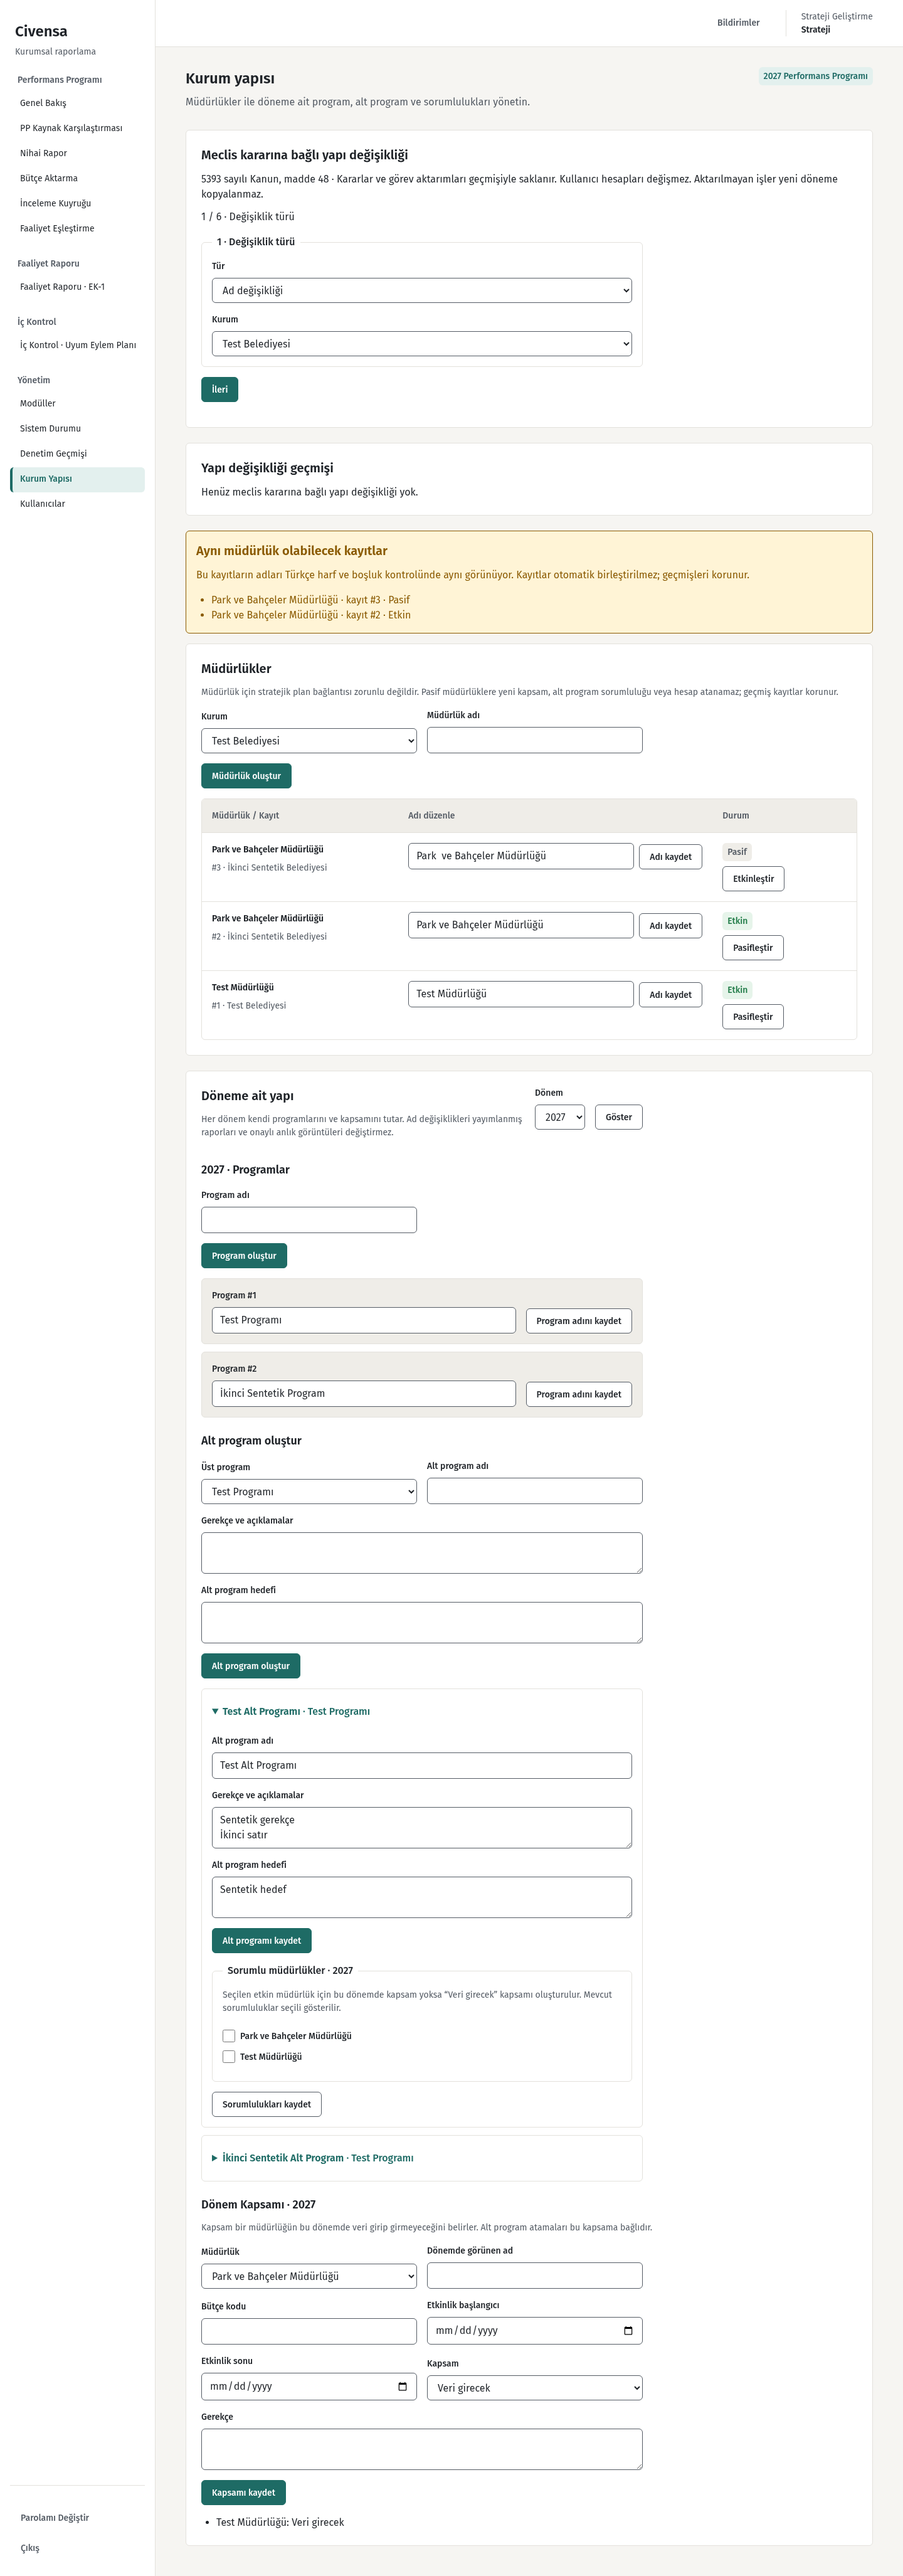
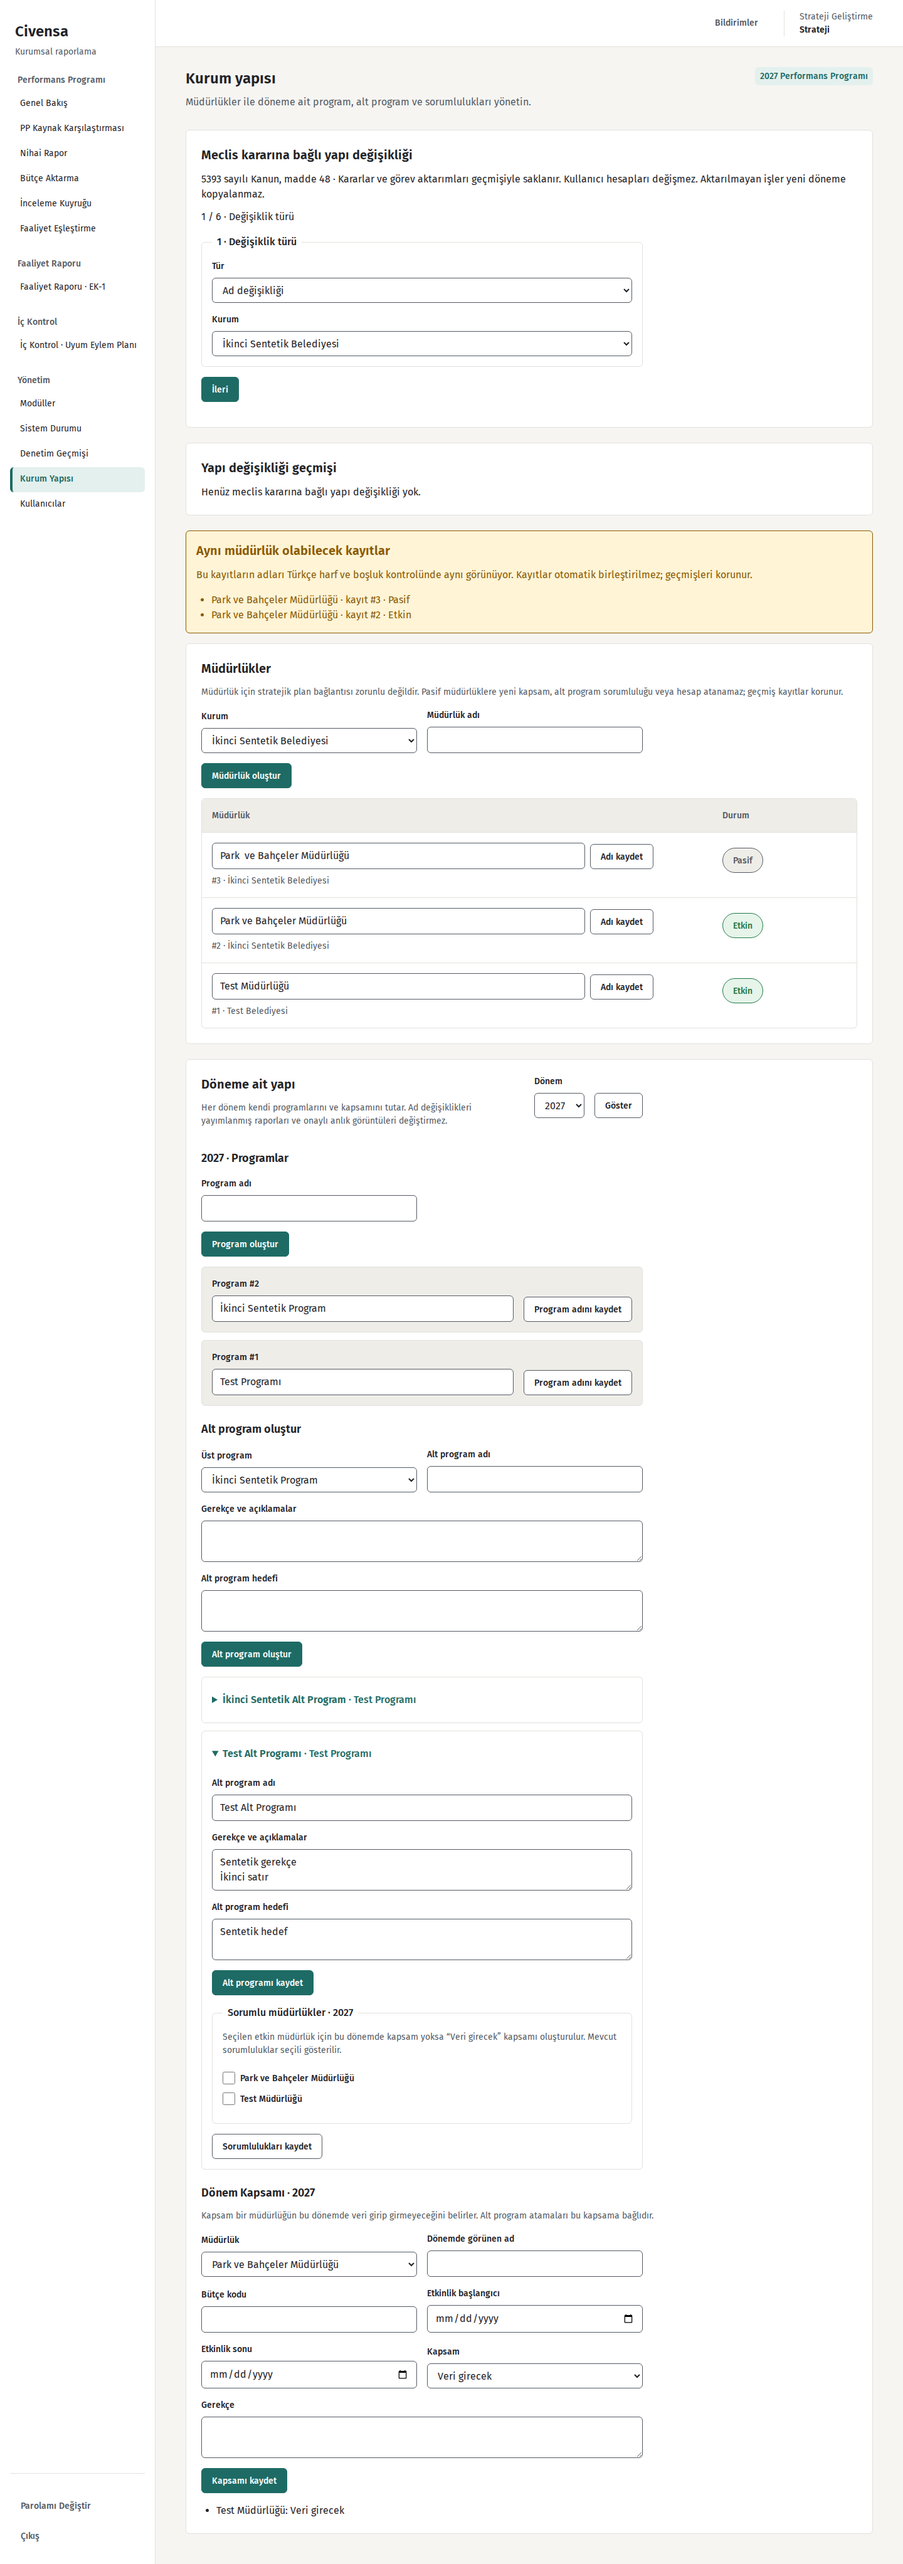
CIV-136 Kurum yapısı durum düğmesi

diff --git a/app/templates/structure.html b/app/templates/structure.html
@@ -62,20 +62,13 @@
         <table class="structure-departments">
           <thead>
             <tr>
-              <th>Müdürlük / Kayıt</th>
-              <th>Adı düzenle</th>
+              <th>Müdürlük</th>
               <th>Durum</th>
             </tr>
           </thead>
           <tbody>
             {% for d in departments %}
               <tr>
-                <td>
-                  <b>{{ d.name }}</b>
-                  <div class="smallnote">
-                    #{{ d.id }} · {{ d.organization.name }}
-                  </div>
-                </td>
                 <td>
                   {% set action='/structure/departments/' ~ d.id ~ '/rename' %}
                   <form method="post" action="{{ action }}" class="structure-row">
@@ -89,22 +82,22 @@
                     <input id="dept-{{ d.id }}" name="name" required maxlength="200" value="{{ value(action,'name',d.name) }}">
                     <button class="button small">Adı kaydet</button>
                   </form>
+                  <div class="smallnote">#{{ d.id }} · {{ d.organization.name }}</div>
                 </td>
                 <td>
-                  <span class="status {{ 'approved' if d.is_active else 'draft' }}">{{ 'Etkin' if d.is_active else 'Pasif' }}</span>
                   <form method="post" action="/structure/departments/{{ d.id }}/active">
                     {{ csrf() }}
                     {% if period %}
                       {{ period_field() }}
                     {% endif %}
                     <input type="hidden" name="active" value="{{ '0' if d.is_active else '1' }}">
-                    <button class="button small">{{ 'Pasifleştir' if d.is_active else 'Etkinleştir' }}</button>
+                    <button class="button small status-control {{ 'is-active' if d.is_active else 'is-inactive' }}" role="switch" aria-checked="{{ 'true' if d.is_active else 'false' }}" aria-label="{{ d.name }} durumu">{{ 'Etkin' if d.is_active else 'Pasif' }}</button>
                   </form>
                 </td>
               </tr>
             {% else %}
               <tr>
-                <td colspan="3">Henüz müdürlük yok. Yukarıdaki formdan ilk müdürlüğü oluşturun.</td>
+                <td colspan="2">Henüz müdürlük yok. Yukarıdaki formdan ilk müdürlüğü oluşturun.</td>
               </tr>
             {% endfor %}
           </tbody>

diff --git a/app/static/design/structure.css b/app/static/design/structure.css
@@ -24,6 +24,11 @@
 .structure-page .button:hover { background: var(--surface-muted); color: var(--text); }
 .structure-page .button.primary { background: var(--accent); border-color: var(--accent); color: var(--surface); }
 .structure-page .button.primary:hover { background: var(--accent-hover); border-color: var(--accent-hover); }
+.structure-page .status-control { min-height: var(--control-height); border-radius: 999px; }
+.structure-page .status-control.is-active,
+.structure-page .status-control.is-active:hover { background: var(--success-bg); border-color: var(--success); color: var(--success); }
+.structure-page .status-control.is-inactive,
+.structure-page .status-control.is-inactive:hover { background: var(--surface-muted); border-color: var(--text-secondary); color: var(--text-secondary); }
 .structure-page :is(.structure-form,.structure-row) { display: grid; grid-template-columns: minmax(0,1fr); gap: var(--space-4); align-items: end; margin: var(--space-4) 0; }
 .structure-page .structure-form > .button { grid-column: 1 / -1; }
 .structure-page .structure-form > label:has(textarea) { grid-column: 1 / -1; }
@@ -45,8 +50,8 @@
 .structure-page table { width: 100%; min-width: 740px; margin: 0; border-collapse: collapse; table-layout: fixed; }
 .structure-page :is(th,td) { padding: var(--space-4); border-bottom: 1px solid var(--border); vertical-align: top; font-size: var(--text-sm); }
 .structure-page th { background: var(--surface-muted); color: var(--text-secondary); font-weight: var(--font-medium); }
-.structure-page .structure-departments th:first-child { width: 30%; }
-.structure-page .structure-departments th:nth-child(2) { width: 48%; }
+.structure-page .structure-departments th:first-child { width: 78%; }
+.structure-page .structure-departments th:nth-child(2) { width: 22%; }
 .structure-page tbody tr:last-child td { border-bottom: 0; }
 .structure-page td .structure-row { display: flex; flex-wrap: nowrap; gap: var(--space-2); margin: 0; }
 .structure-page td .structure-row input { flex: 1; min-width: 0; }

diff --git a/tests/test_structure_design.py b/tests/test_structure_design.py
@@ -26,6 +26,7 @@ TEXT_CHANGES = {
     'Kurum Yapısı': 'Kurum yapısı',
     'Döneme Ait Yapı': 'Döneme ait yapı',
     'Alt Program Oluştur': 'Alt program oluştur',
+    'Müdürlük / Kayıt Adı düzenle Durum': 'Müdürlük Durum',
 }
 
 
@@ -40,6 +41,11 @@ class StructureContract(Contract):
         super().__init__(html)
 
     def handle_starttag(self, tag, attrs):
+        if tag == 'button':
+            attrs = dict(attrs)
+            if attrs.get('role') == 'switch':
+                attrs = [(name, value) for name, value in attrs.items()
+                    if name not in {'role', 'aria-checked', 'aria-label'}]
         super().handle_starttag(tag, attrs)
         if not self.main:
             return
@@ -92,14 +98,27 @@ def assert_frozen(response, context=None):
     assert current.controls == starting.controls
     assert current.bindings == starting.bindings
     assert current.hidden_inputs == starting.hidden_inputs
-    assert current.labels == starting.labels
+    expected_labels = [
+        (kind, {'Pasifleştir': 'Etkin', 'Etkinleştir': 'Pasif'}.get(label, label)
+            if kind == 'button' else label)
+        for kind, label in starting.labels
+    ]
+    assert current.labels == expected_labels
     assert current.textareas == starting.textareas
     assert current.disclosures == starting.disclosures
     assert current.hooks == starting.hooks
-    # Only the three headings change; the wizard's instructional sentence stays verbatim.
+    # Keep the frozen form content except for the approved table and status wording.
     expected = VisibleText(old).normalized()
     for a, b in TEXT_CHANGES.items():
         expected = expected.replace(a, b, 1)
+    for d in context['departments']:
+        state = 'Etkin' if d.is_active else 'Pasif'
+        toggle = 'Pasifleştir' if d.is_active else 'Etkinleştir'
+        name, organization = ' '.join(d.name.split()), ' '.join(d.organization.name.split())
+        before = f'{name} #{d.id} · {organization} {name} yeni adı Adı kaydet {state} {toggle}'
+        after = f'{name} yeni adı Adı kaydet #{d.id} · {organization} {state}'
+        assert expected.count(before) == 1
+        expected = expected.replace(before, after, 1)
     assert VisibleText(actual).normalized() == expected
     assert actual.count('name="csrf_token"') == actual.count('<form method="post"')
     return actual
@@ -194,6 +213,17 @@ def test_frozen_failed_save_attempts_selections_and_open_details(structure_clien
         assert sum('open' in dict(attrs) for attrs in StructureContract(html).disclosures) == 1
 
 
+def test_department_table_has_two_columns_and_empty_state(structure_client):
+    response = structure_client.get('/structure')
+    context = dict(response.context)
+    context['departments'] = []
+    html = assert_frozen(response, context)
+    assert '<th>Müdürlük</th>' in html
+    assert '<th>Durum</th>' in html
+    assert '<th>Adı düzenle</th>' not in html
+    assert 'colspan="2">Henüz müdürlük yok.' in html
+
+
 def capture(page, name, width):
     folder = os.getenv('CIVENSA_CIV131_SCREENSHOTS')
     if folder:
@@ -207,6 +237,7 @@ def capture(page, name, width):
 def assert_layout_and_contrast(page, root, width):
     assert page.evaluate('document.documentElement.scrollWidth === innerWidth')
     assert root.locator('*').evaluate_all("els => els.every(el => getComputedStyle(el).textTransform !== 'uppercase')")
+    assert root.locator('.structure-departments thead th').count() == 2
     pairs = set(map(tuple, page.evaluate(TEXT_PAIRS.replace('.section-index-page', '.structure-page'))))
     for control in root.locator('button, input:not([type=hidden]), select, textarea, summary, [tabindex]').all():
         if control.is_visible():
@@ -228,8 +259,16 @@ def assert_layout_and_contrast(page, root, width):
         field, button = row.locator('input[name=name]'), row.get_by_role('button', name='Adı kaydet', exact=True)
         field_box, button_box = field.bounding_box(), button.bounding_box()
         assert abs(field_box['y'] + field_box['height'] - button_box['y'] - button_box['height']) <= 1
-        badge, toggle = row.locator('.status').bounding_box(), row.locator('td').last.locator('button').bounding_box()
-        assert toggle['y'] >= badge['y'] + badge['height']
+        assert row.locator('td').count() == 2
+        assert row.locator('td').first.locator('b').count() == 0
+        switch = row.get_by_role('switch')
+        assert switch.count() == 1
+        checked = switch.get_attribute('aria-checked')
+        assert checked in {'true', 'false'}
+        expect(switch).to_have_text('Etkin' if checked == 'true' else 'Pasif')
+        assert switch.get_attribute('aria-label') == f'{field.input_value()} durumu'
+        state_class = 'is-active' if checked == 'true' else 'is-inactive'
+        assert switch.evaluate('(el, name) => el.classList.contains(name)', state_class)
     if width == 390:
         wrap = root.locator('.table-wrap').last
         assert wrap.evaluate('el => el.scrollWidth > el.clientWidth')
@@ -306,11 +345,15 @@ def test_browser_layout_real_save_error_preservation_and_evidence(browser, struc
         rename = row.locator('form').first
         rename.locator('[name=name]').fill('Yeni Sentetik Müdürlük')
         rename.get_by_role('button', name='Adı kaydet', exact=True).click()
-        expect(row.locator('td').first).to_contain_text('Yeni Sentetik Müdürlük')
-        row.get_by_role('button', name='Pasifleştir', exact=True).click()
-        expect(row.locator('.status')).to_have_text('Pasif')
-        row.get_by_role('button', name='Etkinleştir', exact=True).click()
-        expect(row.locator('.status')).to_have_text('Etkin')
+        expect(row.locator('td').first.locator('input[name=name]')).to_have_value('Yeni Sentetik Müdürlük')
+        toggle = row.get_by_role('switch')
+        expect(toggle).to_have_attribute('aria-label', 'Yeni Sentetik Müdürlük durumu')
+        toggle.click()
+        expect(toggle).to_have_text('Pasif')
+        expect(toggle).to_have_attribute('aria-checked', 'false')
+        toggle.click()
+        expect(toggle).to_have_text('Etkin')
+        expect(toggle).to_have_attribute('aria-checked', 'true')
         select = root.locator('form[method=get]')
         select.locator('select[name=period_id]').select_option(label='2028')
         select.get_by_role('button', name='Göster', exact=True).click()
